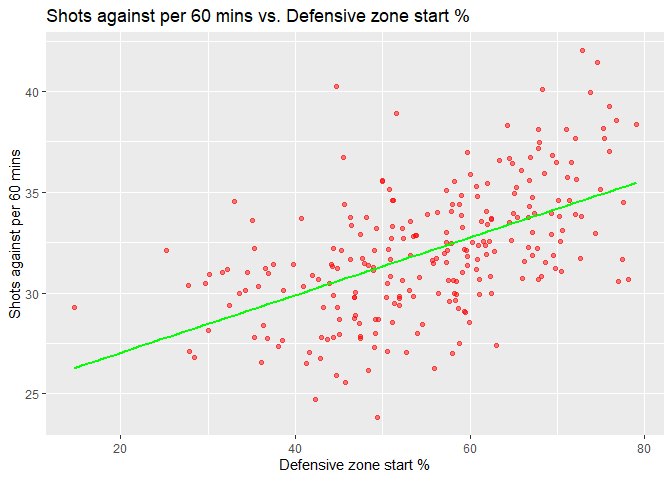
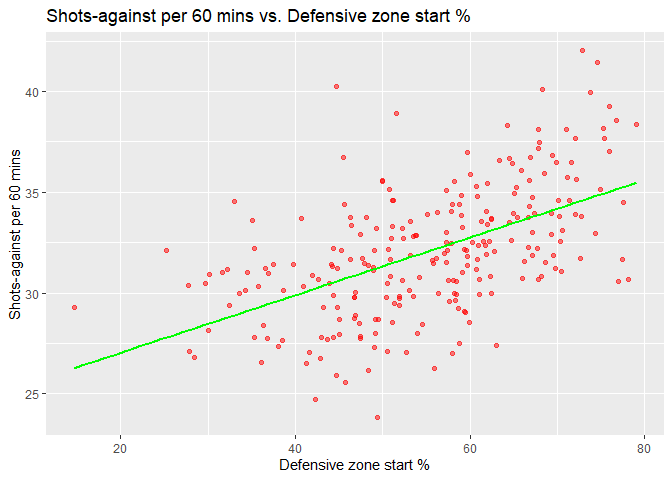
fixed mistake

Changed region(s): [[0.125, 0.0, 0.7188, 0.0625], [0.0, 0.5625, 0.0312, 0.6875]]

diff --git a/defensive_pairs_summary.md b/defensive_pairs_summary.md
@@ -94,25 +94,25 @@ ggplot(data=defensemen_data, mapping=aes(Def_Zone_Start_Pct, HDCA_60)) + geom_po
 
 ggplot(data=defensemen_data, mapping=aes(Def_Zone_Start_Pct, GF1)) + geom_point(color='red', alpha=0.5) + geom_smooth(method='lm', se=FALSE, color='green') + labs(title="Goals-for % vs. Defensive zone start %", x = "Defensive zone start %", y = "Goals-for %")
  
-ggplot(data=defensemen_data, mapping=aes(Def_Zone_Start_Pct, xGA)) + geom_point(color='red', alpha=0.5) + geom_smooth(method='lm', se=FALSE, color='green') + labs(title="Expected goals against vs. Defensive zone start %", x = "Defensive zone start %", y = "Expected goals against")
+ggplot(data=defensemen_data, mapping=aes(Def_Zone_Start_Pct, xGA)) + geom_point(color='red', alpha=0.5) + geom_smooth(method='lm', se=FALSE, color='green') + labs(title="Expected goals-against vs. Defensive zone start %", x = "Defensive zone start %", y = "Expected goals-against")
 
-ggplot(data=defensemen_data, mapping=aes(Def_Zone_Start_Pct, xGF)) + geom_point(color='red', alpha=0.5) + geom_smooth(method='lm', se=FALSE, color='green') + labs(title="Expected goals for % vs. Defensive zone start %", x = "Defensive zone start %", y = "Expected goals for %")
+ggplot(data=defensemen_data, mapping=aes(Def_Zone_Start_Pct, xGF)) + geom_point(color='red', alpha=0.5) + geom_smooth(method='lm', se=FALSE, color='green') + labs(title="Expected goals-for % vs. Defensive zone start %", x = "Defensive zone start %", y = "Expected goals-for %")
 
 ggplot(data=defensemen_data, mapping=aes(Def_Zone_Start_Pct, Giveaways_60)) + geom_point(color='red', alpha=0.5) + geom_smooth(method='lm', se=FALSE, color='green') + labs(title="Giveaways per 60 mins vs. Defensive zone start %", x = "Defensive zone start %", y = "Giveaways per 60 mins")
 
 ggplot(data=defensemen_data, mapping=aes(Def_Zone_Start_Pct, HDCF1)) + geom_point(color='red', alpha=0.5) + geom_smooth(method='lm', se=FALSE, color='green') + labs(title="High-danger chances for % vs. Defensive zone start %", x = "Defensive zone start %", y = "High danger chances for %")
 
-ggplot(data=defensemen_data, mapping=aes(Def_Zone_Start_Pct, SF_60)) + geom_point(color='red', alpha=0.5) + geom_smooth(method='lm', se=FALSE, color='green') + labs(title="Shots for per 60 mins vs. Defensive zone start %", x = "Defensive zone start %", y = "Shots for per 60 mins")
+ggplot(data=defensemen_data, mapping=aes(Def_Zone_Start_Pct, SF_60)) + geom_point(color='red', alpha=0.5) + geom_smooth(method='lm', se=FALSE, color='green') + labs(title="Shots-for per 60 mins vs. Defensive zone start %", x = "Defensive zone start %", y = "Shots-for per 60 mins")
 
-ggplot(data=defensemen_data, mapping=aes(Def_Zone_Start_Pct, SA_60)) + geom_point(color='red', alpha=0.5) + geom_smooth(method='lm', se=FALSE, color='green') + labs(title="Shots against per 60 mins vs. Defensive zone start %", x = "Defensive zone start %", y = "Shots against per 60 mins")
+ggplot(data=defensemen_data, mapping=aes(Def_Zone_Start_Pct, SA_60)) + geom_point(color='red', alpha=0.5) + geom_smooth(method='lm', se=FALSE, color='green') + labs(title="Shots-against per 60 mins vs. Defensive zone start %", x = "Defensive zone start %", y = "Shots-against per 60 mins")
 
-ggplot(data=defensemen_data, mapping=aes(Def_Zone_Start_Pct, Shots_Blocked_60)) + geom_point(color='red', alpha=0.5) + geom_smooth(method='lm', se=FALSE, color='green') + labs(title="Shots blocked per 60 mins vs. Defensive zone start %", x = "Defensive zone start %", y = "Shots against per 60 mins")
+ggplot(data=defensemen_data, mapping=aes(Def_Zone_Start_Pct, Shots_Blocked_60)) + geom_point(color='red', alpha=0.5) + geom_smooth(method='lm', se=FALSE, color='green') + labs(title="Shots blocked per 60 mins vs. Defensive zone start %", x = "Defensive zone start %", y = "Shots blocked per 60 mins")
 
-ggplot(data=defensemen_data, mapping=aes(Def_Zone_Start_Pct, GF_60)) + geom_point(color='red', alpha=0.5) + geom_smooth(method='lm', se=FALSE, color='green') + labs(title="Goals for per 60 mins vs. Defensive zone start %", x = "Defensive zone start %", y = "Goals for per 60 mins")
+ggplot(data=defensemen_data, mapping=aes(Def_Zone_Start_Pct, GF_60)) + geom_point(color='red', alpha=0.5) + geom_smooth(method='lm', se=FALSE, color='green') + labs(title="Goals-for per 60 mins vs. Defensive zone start %", x = "Defensive zone start %", y = "Goals-for per 60 mins")
 
 ggplot(data=defensemen_data, mapping=aes(Def_Zone_Start_Pct, Takeaways_60)) + geom_point(color='red', alpha=0.5) + geom_smooth(method='lm', se=FALSE, color='green') + labs(title="Takeaways per 60 mins vs. Defensive zone start %", x = "Defensive zone start %", y = "Takeaways per 60 mins")
 
-ggplot(data=defensemen_data, mapping=aes(Def_Zone_Start_Pct, GA_60)) + geom_point(color='red', alpha=0.5) + geom_smooth(method='lm', se=FALSE, color='green') + labs(title="Goals against per 60 mins vs. Defensive zone start %", x = "Defensive zone start %", y = "Goals against per 60 mins")
+ggplot(data=defensemen_data, mapping=aes(Def_Zone_Start_Pct, GA_60)) + geom_point(color='red', alpha=0.5) + geom_smooth(method='lm', se=FALSE, color='green') + labs(title="Goals-against per 60 mins vs. Defensive zone start %", x = "Defensive zone start %", y = "Goals-against per 60 mins")
 ```
 
 <img src="defensive_pairs_summary_files/figure-gfm/figures-side-1.png" width="50%" /><img src="defensive_pairs_summary_files/figure-gfm/figures-side-2.png" width="50%" /><img src="defensive_pairs_summary_files/figure-gfm/figures-side-3.png" width="50%" /><img src="defensive_pairs_summary_files/figure-gfm/figures-side-4.png" width="50%" /><img src="defensive_pairs_summary_files/figure-gfm/figures-side-5.png" width="50%" /><img src="defensive_pairs_summary_files/figure-gfm/figures-side-6.png" width="50%" /><img src="defensive_pairs_summary_files/figure-gfm/figures-side-7.png" width="50%" /><img src="defensive_pairs_summary_files/figure-gfm/figures-side-8.png" width="50%" /><img src="defensive_pairs_summary_files/figure-gfm/figures-side-9.png" width="50%" /><img src="defensive_pairs_summary_files/figure-gfm/figures-side-10.png" width="50%" /><img src="defensive_pairs_summary_files/figure-gfm/figures-side-11.png" width="50%" /><img src="defensive_pairs_summary_files/figure-gfm/figures-side-12.png" width="50%" /><img src="defensive_pairs_summary_files/figure-gfm/figures-side-13.png" width="50%" />
